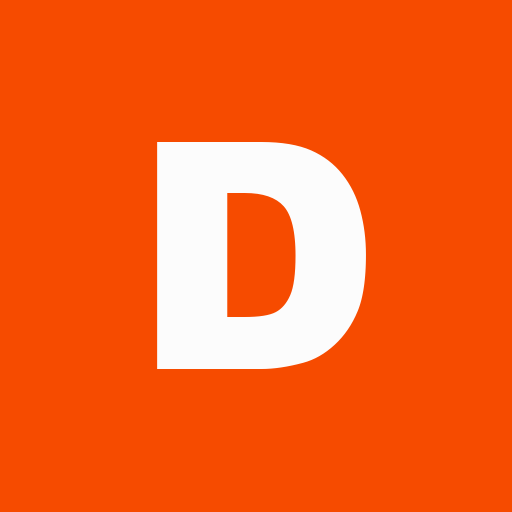
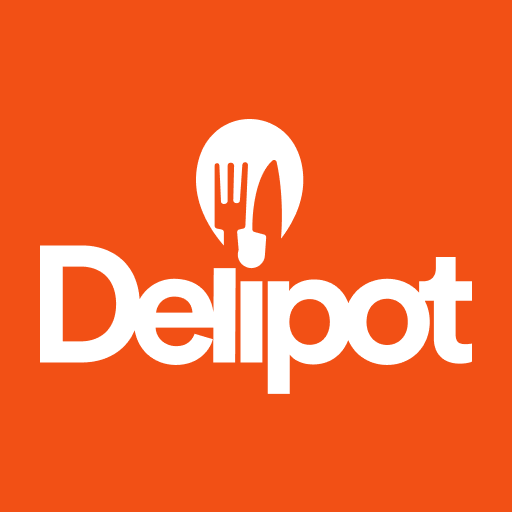
chore: 파비콘·앱 아이콘을 Delipot 로고로 교체
파비콘 link 태그가 아예 없어서, 브라우저가 /favicon.ico 를 찾다 SPA 폴백으로
index.html 을 받고 빈 아이콘을 그리고 있었다. 전달받은 로고 SVG·PNG 로 채웠다.

- public/favicon.svg 추가: 원본 마크의 viewBox 가 52x71 로 정사각이 아니라,
  파비콘의 정사각 렌더 박스에서 한쪽으로 치우친다. 71x71 캔버스에 가로 중앙
  정렬(translate 9.5)해 감쌌다.
- index.html: SVG 우선 + PNG 폴백. 브라우저는 처리 가능한 것 중 마지막을 쓰므로
  SVG 를 먼저 두어야 한다. 폴백은 새 파일 없이 기존 icon-192.png 를 재사용.
- PWA 아이콘 3종 + apple-touch-icon 을 512px 원본에서 sips 로 재생성.
- maskable 은 Android 원형 마스크에 워드마크가 잘리므로, 콘텐츠를 80%(410px)로
  줄이고 남은 여백을 배경색 #F25015 로 채워 세이프존을 확보했다.

Changed region(s): [[0.0625, 0.2188, 0.9375, 0.7812]]

diff --git a/frontend/index.html b/frontend/index.html
@@ -5,6 +5,10 @@
     <meta name="viewport" content="width=device-width, initial-scale=1.0" />
     <title>Delipot</title>
 
+    <!-- SVG 파비콘을 우선 쓴다. 지원하지 않는 브라우저(Safari 16.3 이하 등)는 아래 PNG로 폴백한다. -->
+    <link rel="icon" type="image/svg+xml" href="/favicon.svg" />
+    <link rel="icon" type="image/png" sizes="192x192" href="/icon-192.png" />
+
     <link rel="manifest" href="/manifest.webmanifest" />
     <meta name="theme-color" content="#F64B00" />
 
